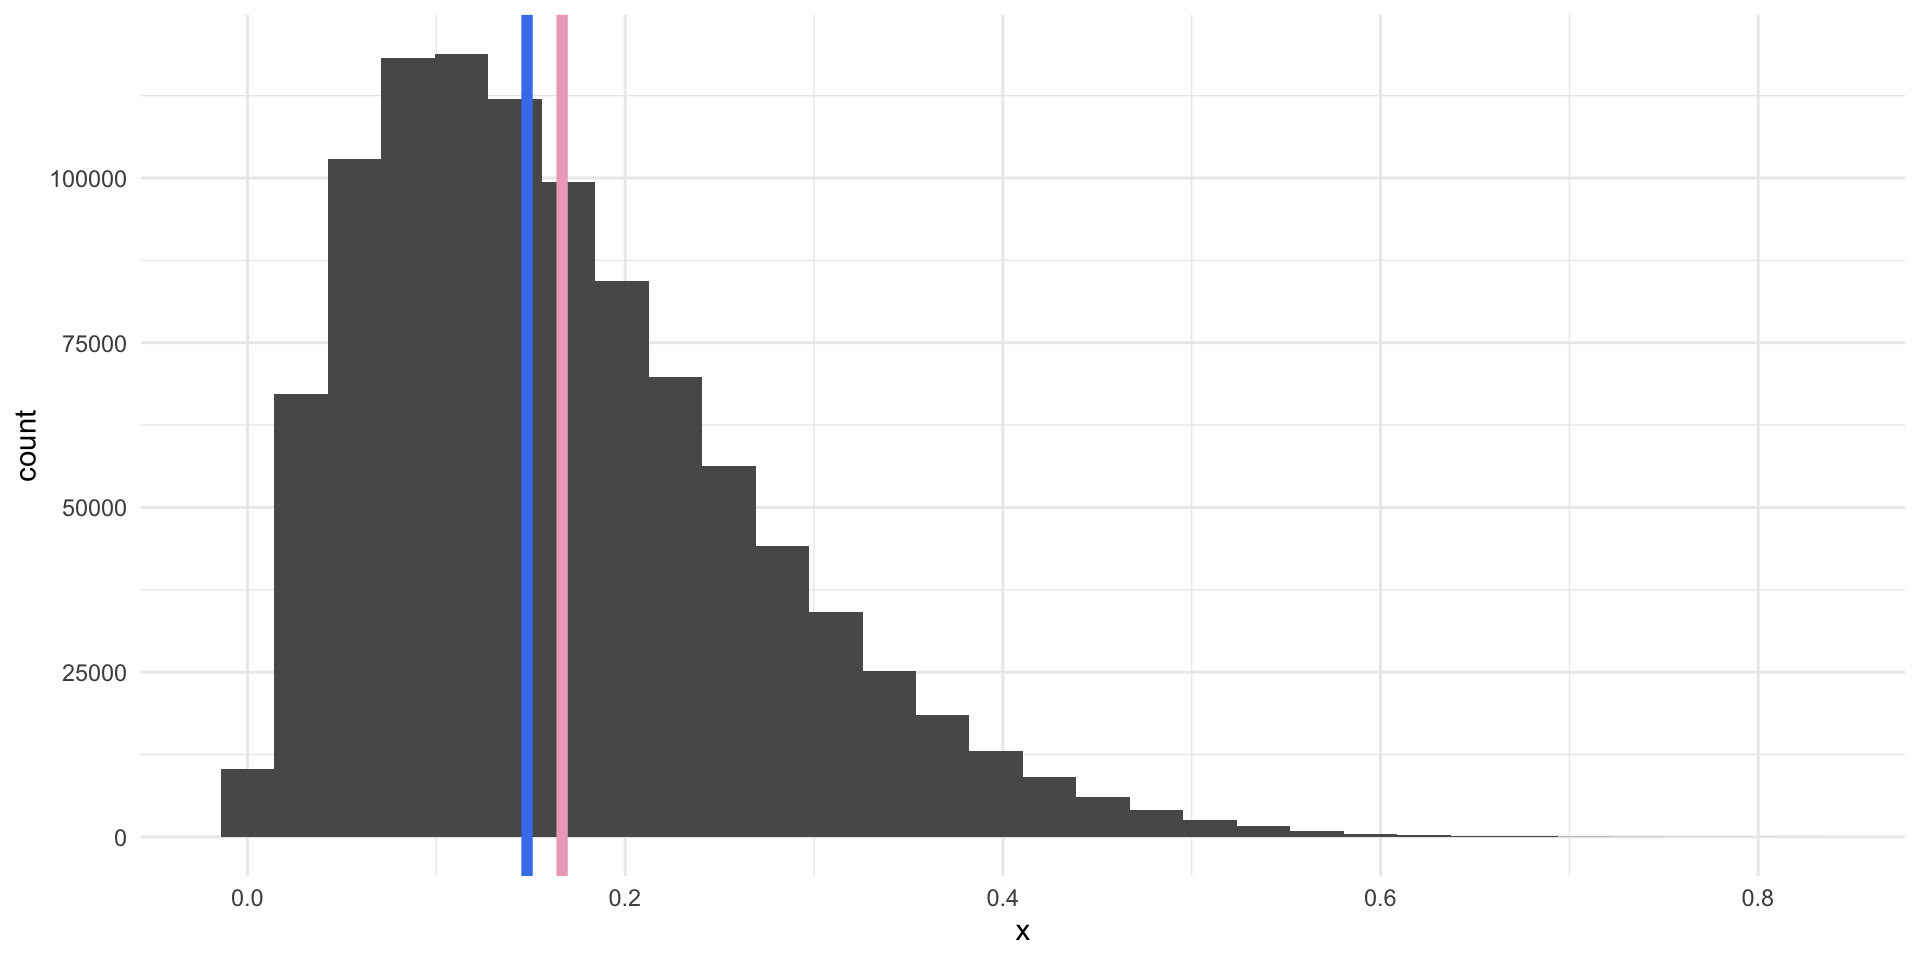
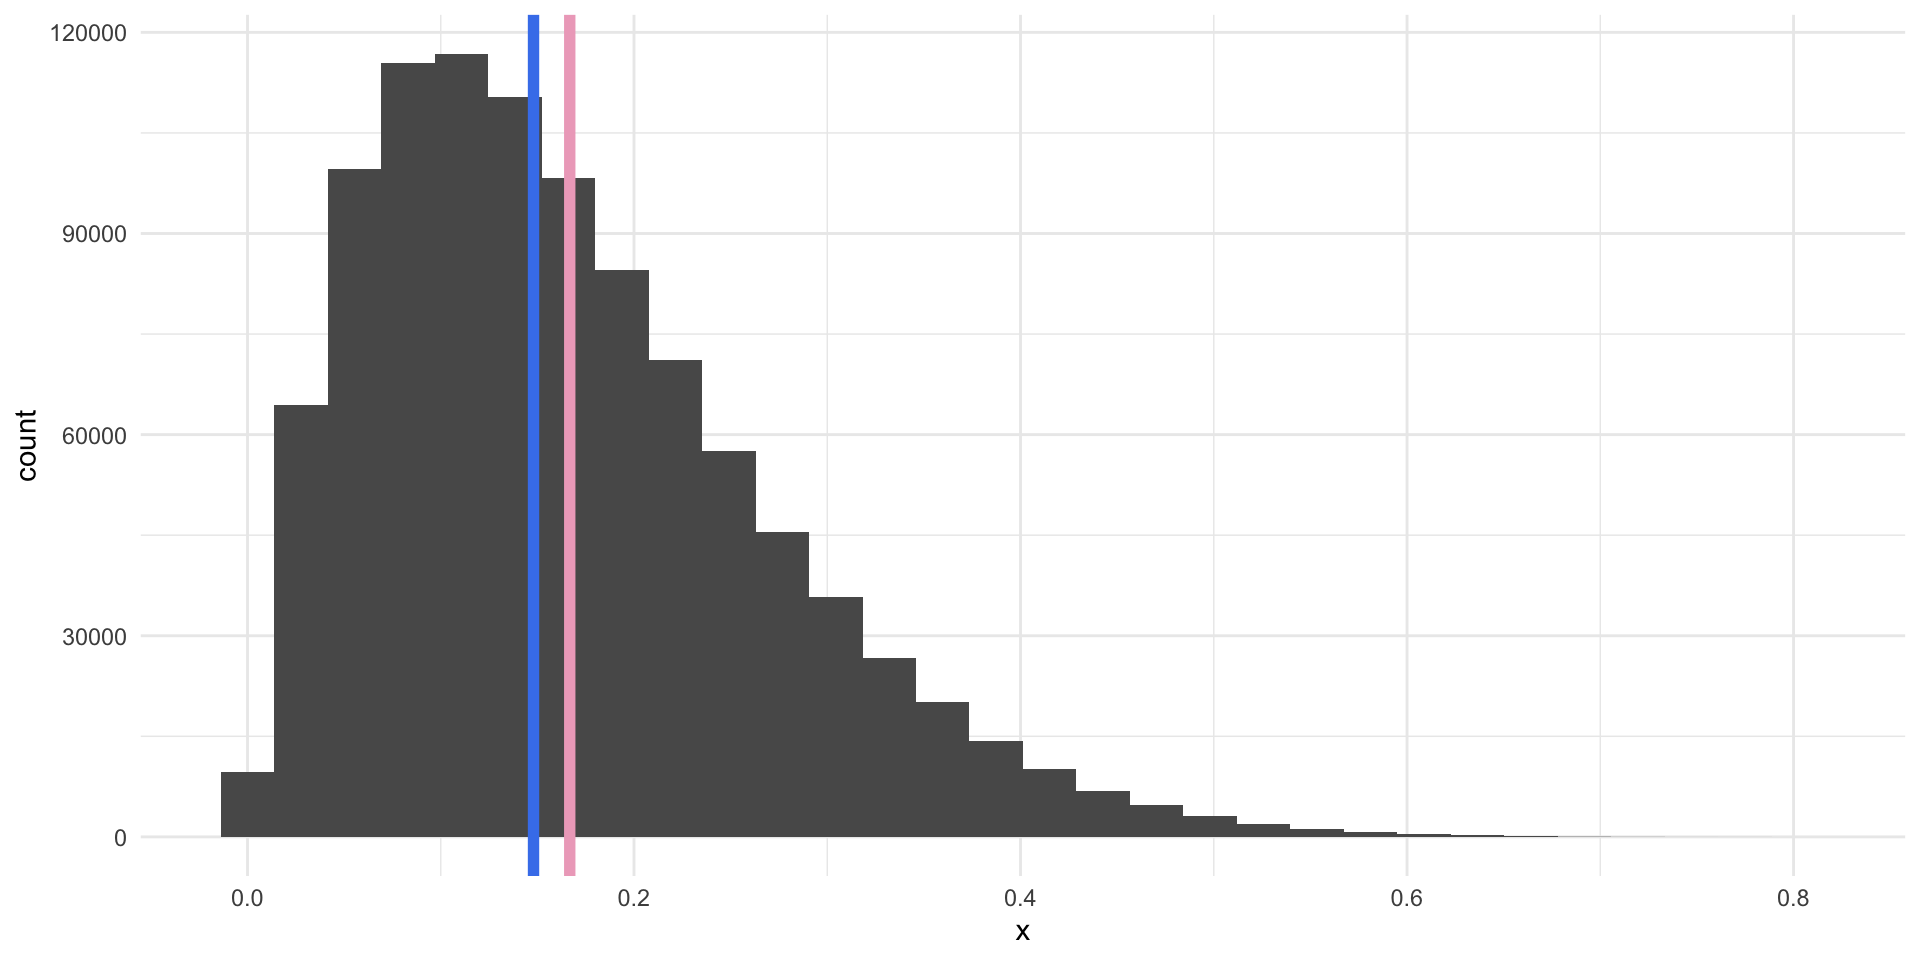
Update office hours

diff --git a/docs/schedule.html b/docs/schedule.html
@@ -161,21 +161,21 @@ ul.task-list li input[type="checkbox"] {
 <td style="text-align: left; width: 52%;">Descriptive Statistics</td>
 <td style="text-align: center; width: 12%;"><a href="https://hgoers.github.io/GVPT622/content/02-descriptive_statistics.html"><i class="fa-solid fa-book" aria-label="book"></i></a></td>
 <td style="text-align: center; width: 12%;"><a href="https://hgoers.github.io/GVPT622/content/02-descriptive_statistics.html#section"><i class="fa-solid fa-gears" aria-label="gears"></i></a></td>
-<td style="text-align: center; width: 12%;"><a href="https://github.com/hgoers/GVPT622_problem_sets/blob/main/https://github.com/hgoers/GVPT622_problem_sets/blob/6839aa3d445c880d420354218133a1d462e5c444/problem_set_1.qmd"><i class="fa-solid fa-pen-ruler" aria-label="pen-ruler"></i></a></td>
+<td style="text-align: center; width: 12%;"><a href="https://github.com/hgoers/GVPT622_problem_sets/blob/main/https://github.com/hgoers/GVPT622_problem_sets"><i class="fa-solid fa-pen-ruler" aria-label="pen-ruler"></i></a></td>
 </tr>
 <tr class="even">
 <td style="text-align: left; width: 12%; padding-right: 20px;">2023-09-18</td>
 <td style="text-align: left; width: 52%;">Relationships Between Two Variables</td>
 <td style="text-align: center; width: 12%;"><p><i class="fa-solid fa-book" aria-label="book"></i></p></td>
 <td style="text-align: center; width: 12%;"><p><i class="fa-solid fa-gears" aria-label="gears"></i></p></td>
-<td style="text-align: center; width: 12%;"><p><i class="fa-solid fa-pen-ruler" aria-label="pen-ruler"></i></p></td>
+<td style="text-align: center; width: 12%;"><a href="https://github.com/hgoers/GVPT622_problem_sets/blob/main/https://github.com/hgoers/GVPT622_problem_sets"><i class="fa-solid fa-pen-ruler" aria-label="pen-ruler"></i></a></td>
 </tr>
 <tr class="odd">
 <td style="text-align: left; width: 12%; padding-right: 20px;">2023-09-25</td>
 <td style="text-align: left; width: 52%;">Research Design</td>
 <td style="text-align: center; width: 12%;"><p><i class="fa-solid fa-book" aria-label="book"></i></p></td>
 <td style="text-align: center; width: 12%;"><p><i class="fa-solid fa-gears" aria-label="gears"></i></p></td>
-<td style="text-align: center; width: 12%;"><p><i class="fa-solid fa-pen-ruler" aria-label="pen-ruler"></i></p></td>
+<td style="text-align: center; width: 12%;"><a href="https://github.com/hgoers/GVPT622_problem_sets/blob/main/https://github.com/hgoers/GVPT622_problem_sets"><i class="fa-solid fa-pen-ruler" aria-label="pen-ruler"></i></a></td>
 </tr>
 <tr class="even">
 <td style="text-align: left; width: 12%; padding-right: 20px;">2023-10-02</td>
@@ -189,28 +189,28 @@ ul.task-list li input[type="checkbox"] {
 <td style="text-align: left; width: 52%;">Probability Theory</td>
 <td style="text-align: center; width: 12%;"><p><i class="fa-solid fa-book" aria-label="book"></i></p></td>
 <td style="text-align: center; width: 12%;"><p><i class="fa-solid fa-gears" aria-label="gears"></i></p></td>
-<td style="text-align: center; width: 12%;"><p><i class="fa-solid fa-pen-ruler" aria-label="pen-ruler"></i></p></td>
+<td style="text-align: center; width: 12%;"><a href="https://github.com/hgoers/GVPT622_problem_sets/blob/main/https://github.com/hgoers/GVPT622_problem_sets"><i class="fa-solid fa-pen-ruler" aria-label="pen-ruler"></i></a></td>
 </tr>
 <tr class="even">
 <td style="text-align: left; width: 12%; padding-right: 20px;">2023-10-16</td>
 <td style="text-align: left; width: 52%;">Hypothesis Testing I</td>
 <td style="text-align: center; width: 12%;"><p><i class="fa-solid fa-book" aria-label="book"></i></p></td>
 <td style="text-align: center; width: 12%;"><p><i class="fa-solid fa-gears" aria-label="gears"></i></p></td>
-<td style="text-align: center; width: 12%;"><p><i class="fa-solid fa-pen-ruler" aria-label="pen-ruler"></i></p></td>
+<td style="text-align: center; width: 12%;"><a href="https://github.com/hgoers/GVPT622_problem_sets/blob/main/https://github.com/hgoers/GVPT622_problem_sets"><i class="fa-solid fa-pen-ruler" aria-label="pen-ruler"></i></a></td>
 </tr>
 <tr class="odd">
 <td style="text-align: left; width: 12%; padding-right: 20px;">2023-10-23</td>
 <td style="text-align: left; width: 52%;">Hypothesis Testing II</td>
 <td style="text-align: center; width: 12%;"><p><i class="fa-solid fa-book" aria-label="book"></i></p></td>
 <td style="text-align: center; width: 12%;"><p><i class="fa-solid fa-gears" aria-label="gears"></i></p></td>
-<td style="text-align: center; width: 12%;"><p><i class="fa-solid fa-pen-ruler" aria-label="pen-ruler"></i></p></td>
+<td style="text-align: center; width: 12%;"><a href="https://github.com/hgoers/GVPT622_problem_sets/blob/main/https://github.com/hgoers/GVPT622_problem_sets"><i class="fa-solid fa-pen-ruler" aria-label="pen-ruler"></i></a></td>
 </tr>
 <tr class="even">
 <td style="text-align: left; width: 12%; padding-right: 20px;">2023-10-30</td>
 <td style="text-align: left; width: 52%;">Hypothesis Testing III</td>
 <td style="text-align: center; width: 12%;"><p><i class="fa-solid fa-book" aria-label="book"></i></p></td>
 <td style="text-align: center; width: 12%;"><p><i class="fa-solid fa-gears" aria-label="gears"></i></p></td>
-<td style="text-align: center; width: 12%;"><p><i class="fa-solid fa-pen-ruler" aria-label="pen-ruler"></i></p></td>
+<td style="text-align: center; width: 12%;"><a href="https://github.com/hgoers/GVPT622_problem_sets/blob/main/https://github.com/hgoers/GVPT622_problem_sets"><i class="fa-solid fa-pen-ruler" aria-label="pen-ruler"></i></a></td>
 </tr>
 <tr class="odd">
 <td style="text-align: left; width: 12%; padding-right: 20px;">2023-11-06</td>
@@ -224,7 +224,7 @@ ul.task-list li input[type="checkbox"] {
 <td style="text-align: left; width: 52%;">Regression Analysis I</td>
 <td style="text-align: center; width: 12%;"><p><i class="fa-solid fa-book" aria-label="book"></i></p></td>
 <td style="text-align: center; width: 12%;"><p><i class="fa-solid fa-gears" aria-label="gears"></i></p></td>
-<td style="text-align: center; width: 12%;"><p><i class="fa-solid fa-pen-ruler" aria-label="pen-ruler"></i></p></td>
+<td style="text-align: center; width: 12%;"><a href="https://github.com/hgoers/GVPT622_problem_sets/blob/main/https://github.com/hgoers/GVPT622_problem_sets"><i class="fa-solid fa-pen-ruler" aria-label="pen-ruler"></i></a></td>
 </tr>
 <tr class="odd">
 <td style="text-align: left; width: 12%; padding-right: 20px;">2023-11-20</td>
@@ -238,7 +238,7 @@ ul.task-list li input[type="checkbox"] {
 <td style="text-align: left; width: 52%;">Regression Analysis II</td>
 <td style="text-align: center; width: 12%;"><p><i class="fa-solid fa-book" aria-label="book"></i></p></td>
 <td style="text-align: center; width: 12%;"><p><i class="fa-solid fa-gears" aria-label="gears"></i></p></td>
-<td style="text-align: center; width: 12%;"><p><i class="fa-solid fa-pen-ruler" aria-label="pen-ruler"></i></p></td>
+<td style="text-align: center; width: 12%;"><a href="https://github.com/hgoers/GVPT622_problem_sets/blob/main/https://github.com/hgoers/GVPT622_problem_sets"><i class="fa-solid fa-pen-ruler" aria-label="pen-ruler"></i></a></td>
 </tr>
 <tr class="odd">
 <td style="text-align: left; width: 12%; padding-right: 20px;">2023-12-04</td>

diff --git a/docs/content/02-descriptive_statistics.html b/docs/content/02-descriptive_statistics.html
@@ -882,18 +882,18 @@ Tip
 <span id="cb27-10"><a href="#cb27-10" aria-hidden="true" tabindex="-1"></a>wide_var_calc</span></code><button title="Copy to Clipboard" class="code-copy-button"><i class="bi"></i></button></pre></div>
 <div class="cell-output cell-output-stdout">
 <pre><code># A tibble: 1,000,000 × 4
-        x    mean   diff diff_2
-    &lt;dbl&gt;   &lt;dbl&gt;  &lt;dbl&gt;  &lt;dbl&gt;
- 1  1.03  0.00113  1.03   1.07 
- 2  1.33  0.00113  1.32   1.75 
- 3  1.52  0.00113  1.51   2.29 
- 4 -1.35  0.00113 -1.35   1.83 
- 5  2.62  0.00113  2.62   6.86 
- 6  0.628 0.00113  0.627  0.393
- 7  1.19  0.00113  1.19   1.42 
- 8  5.53  0.00113  5.53  30.6  
- 9 -3.51  0.00113 -3.52  12.4  
-10 -0.734 0.00113 -0.735  0.541
+        x     mean   diff  diff_2
+    &lt;dbl&gt;    &lt;dbl&gt;  &lt;dbl&gt;   &lt;dbl&gt;
+ 1 -5.47  0.000876 -5.47  29.9   
+ 2  1.45  0.000876  1.45   2.10  
+ 3  1.33  0.000876  1.33   1.77  
+ 4 -0.464 0.000876 -0.465  0.216 
+ 5  0.944 0.000876  0.943  0.890 
+ 6 -0.855 0.000876 -0.856  0.732 
+ 7  0.526 0.000876  0.525  0.276 
+ 8 -1.05  0.000876 -1.05   1.10  
+ 9 -1.62  0.000876 -1.62   2.62  
+10 -0.186 0.000876 -0.186  0.0348
 # ℹ 999,990 more rows</code></pre>
 </div>
 </div>
@@ -903,7 +903,7 @@ Tip
 <span id="cb29-2"><a href="#cb29-2" aria-hidden="true" tabindex="-1"></a></span>
 <span id="cb29-3"><a href="#cb29-3" aria-hidden="true" tabindex="-1"></a>wide_var</span></code><button title="Copy to Clipboard" class="code-copy-button"><i class="bi"></i></button></pre></div>
 <div class="cell-output cell-output-stdout">
-<pre><code>[1] 3.999706</code></pre>
+<pre><code>[1] 4.005748</code></pre>
 </div>
 </div>
 <p>We can compare this to the variance for our narrower distribution.</p>
@@ -919,7 +919,7 @@ Tip
 <span id="cb31-9"><a href="#cb31-9" aria-hidden="true" tabindex="-1"></a></span>
 <span id="cb31-10"><a href="#cb31-10" aria-hidden="true" tabindex="-1"></a>narrow_var</span></code><button title="Copy to Clipboard" class="code-copy-button"><i class="bi"></i></button></pre></div>
 <div class="cell-output cell-output-stdout">
-<pre><code>[1] 0.9994551</code></pre>
+<pre><code>[1] 1.002867</code></pre>
 </div>
 </div>
 <p>It is, in fact, smaller!</p>
@@ -928,14 +928,14 @@ Tip
 <div class="sourceCode cell-code" id="cb33"><pre class="sourceCode r code-with-copy"><code class="sourceCode r"><span id="cb33-1"><a href="#cb33-1" aria-hidden="true" tabindex="-1"></a><span class="fu">var</span>(wide_dist)</span></code><button title="Copy to Clipboard" class="code-copy-button"><i class="bi"></i></button></pre></div>
 <div class="cell-output cell-output-stdout">
 <pre><code>         x
-x 3.999706</code></pre>
+x 4.005748</code></pre>
 </div>
 </div>
 <div class="cell">
 <div class="sourceCode cell-code" id="cb35"><pre class="sourceCode r code-with-copy"><code class="sourceCode r"><span id="cb35-1"><a href="#cb35-1" aria-hidden="true" tabindex="-1"></a><span class="fu">var</span>(narrow_dist)</span></code><button title="Copy to Clipboard" class="code-copy-button"><i class="bi"></i></button></pre></div>
 <div class="cell-output cell-output-stdout">
-<pre><code>          x
-x 0.9994551</code></pre>
+<pre><code>         x
+x 1.002867</code></pre>
 </div>
 </div>
 <div class="cell">
@@ -952,26 +952,26 @@ x TRUE</code></pre>
 <div class="cell">
 <div class="sourceCode cell-code" id="cb39"><pre class="sourceCode r code-with-copy"><code class="sourceCode r"><span id="cb39-1"><a href="#cb39-1" aria-hidden="true" tabindex="-1"></a><span class="fu">sqrt</span>(wide_var)</span></code><button title="Copy to Clipboard" class="code-copy-button"><i class="bi"></i></button></pre></div>
 <div class="cell-output cell-output-stdout">
-<pre><code>[1] 1.999927</code></pre>
+<pre><code>[1] 2.001436</code></pre>
 </div>
 </div>
 <div class="cell">
 <div class="sourceCode cell-code" id="cb41"><pre class="sourceCode r code-with-copy"><code class="sourceCode r"><span id="cb41-1"><a href="#cb41-1" aria-hidden="true" tabindex="-1"></a><span class="fu">sqrt</span>(narrow_var)</span></code><button title="Copy to Clipboard" class="code-copy-button"><i class="bi"></i></button></pre></div>
 <div class="cell-output cell-output-stdout">
-<pre><code>[1] 0.9997275</code></pre>
+<pre><code>[1] 1.001433</code></pre>
 </div>
 </div>
 <p>You can get this directly using <code>sd()</code>:</p>
 <div class="cell">
 <div class="sourceCode cell-code" id="cb43"><pre class="sourceCode r code-with-copy"><code class="sourceCode r"><span id="cb43-1"><a href="#cb43-1" aria-hidden="true" tabindex="-1"></a><span class="fu">sd</span>(wide_dist<span class="sc">$</span>x)</span></code><button title="Copy to Clipboard" class="code-copy-button"><i class="bi"></i></button></pre></div>
 <div class="cell-output cell-output-stdout">
-<pre><code>[1] 1.999927</code></pre>
+<pre><code>[1] 2.001436</code></pre>
 </div>
 </div>
 <div class="cell">
 <div class="sourceCode cell-code" id="cb45"><pre class="sourceCode r code-with-copy"><code class="sourceCode r"><span id="cb45-1"><a href="#cb45-1" aria-hidden="true" tabindex="-1"></a><span class="fu">sd</span>(narrow_dist<span class="sc">$</span>x)</span></code><button title="Copy to Clipboard" class="code-copy-button"><i class="bi"></i></button></pre></div>
 <div class="cell-output cell-output-stdout">
-<pre><code>[1] 0.9997275</code></pre>
+<pre><code>[1] 1.001433</code></pre>
 </div>
 </div>
 <p>If you look back to our graphs, you will see that I set the standard deviations explicitly when I generated the data: <code>rnorm()</code> takes an <code>sd</code> argument. This is great because we can confirm that the standard deviations for the wide and narrow distributions are 2 and 1 respectively (with a little bit of randomnoise).</p>
@@ -1015,12 +1015,12 @@ Tip
 <pre><code># A tibble: 6 × 1
       x
   &lt;dbl&gt;
-1  6.70
-2  3.89
-3  4.65
-4  4.10
-5  2.33
-6  4.71</code></pre>
+1  4.63
+2  7.44
+3  5.36
+4  3.87
+5  4.95
+6  1.89</code></pre>
 </div>
 </div>
 <div class="callout callout-style-default callout-note callout-titled">
@@ -1090,12 +1090,12 @@ z_i = \frac{x_i - \mu_x}{\sigma_x}
 <pre><code># A tibble: 6 × 4
       x  mean    sd z_score
   &lt;dbl&gt; &lt;dbl&gt; &lt;dbl&gt;   &lt;dbl&gt;
-1  6.70  5.00  2.00   0.853
-2  3.89  5.00  2.00  -0.556
-3  4.65  5.00  2.00  -0.176
-4  4.10  5.00  2.00  -0.451
-5  2.33  5.00  2.00  -1.33 
-6  4.71  5.00  2.00  -0.144</code></pre>
+1  4.63  5.00  2.00 -0.185 
+2  7.44  5.00  2.00  1.22  
+3  5.36  5.00  2.00  0.180 
+4  3.87  5.00  2.00 -0.564 
+5  4.95  5.00  2.00 -0.0239
+6  1.89  5.00  2.00 -1.55  </code></pre>
 </div>
 </div>
 <p>We can confirm this:</p>

diff --git a/docs/index.html b/docs/index.html
@@ -166,6 +166,13 @@ ul.task-list li input[type="checkbox"] {
 <li><i class="fa-solid fa-location-dot" aria-label="location-dot"></i> &nbsp; LeFrak Hall, Room 0227</li>
 </ul>
 </section>
+<section id="office-hours" class="level3">
+<h3 class="anchored" data-anchor-id="office-hours">Office hours</h3>
+<ul>
+<li><i class="fa-solid fa-clock" aria-label="clock"></i> &nbsp; Wednesday, 10:00 - 11:00 AM</li>
+<li><i class="fa-solid fa-location-dot" aria-label="location-dot"></i> &nbsp; <a href="https://app.testudo.umd.edu/soc/202308/GVPT">Zoom</a></li>
+</ul>
+</section>
 </div>
 <section id="contacting-me" class="level3 g-col-12 g-col-md-4 contact-policy">
 <h3 class="anchored" data-anchor-id="contacting-me">Contacting me</h3>
